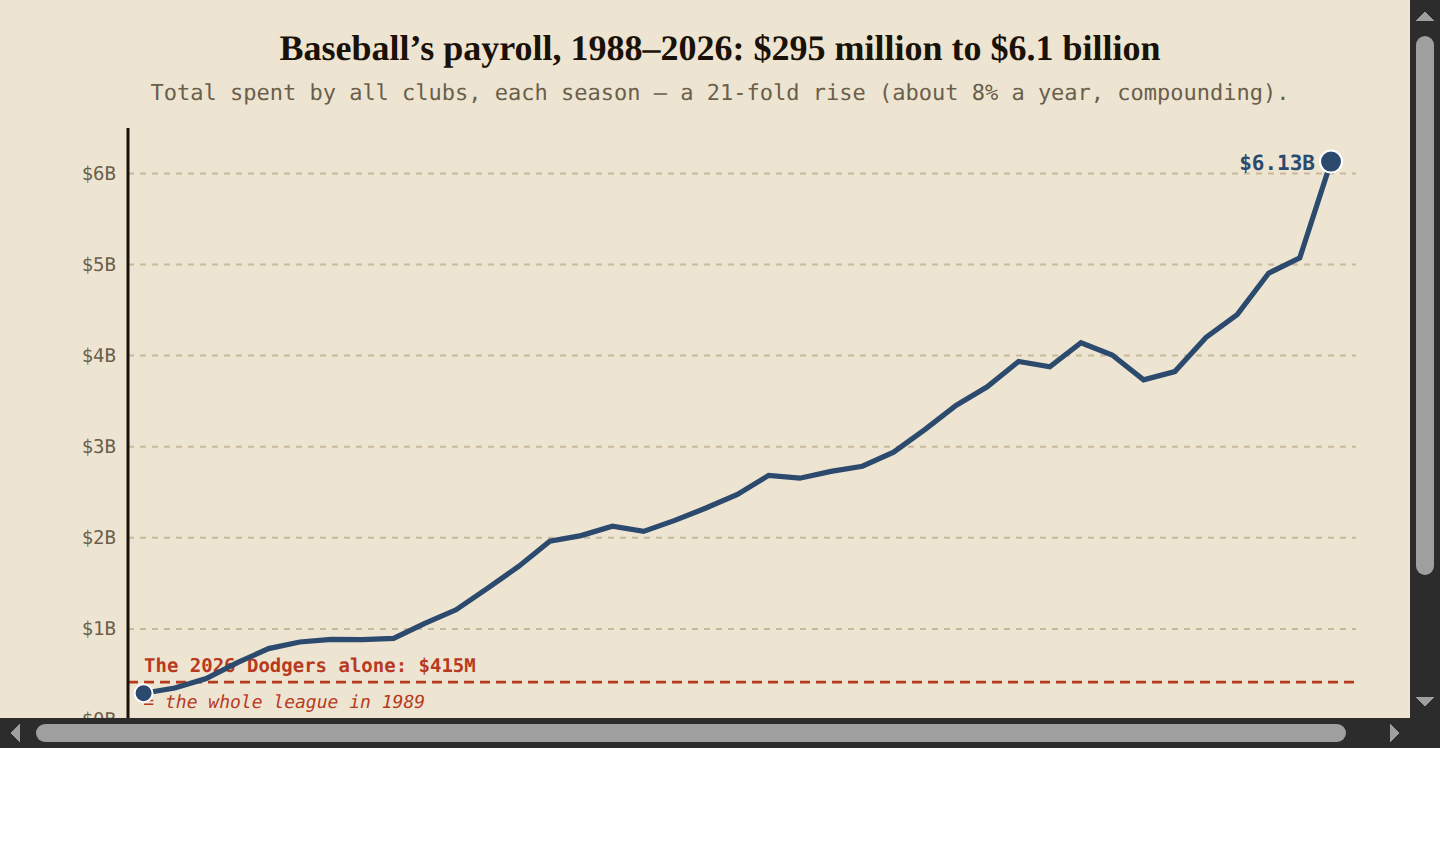
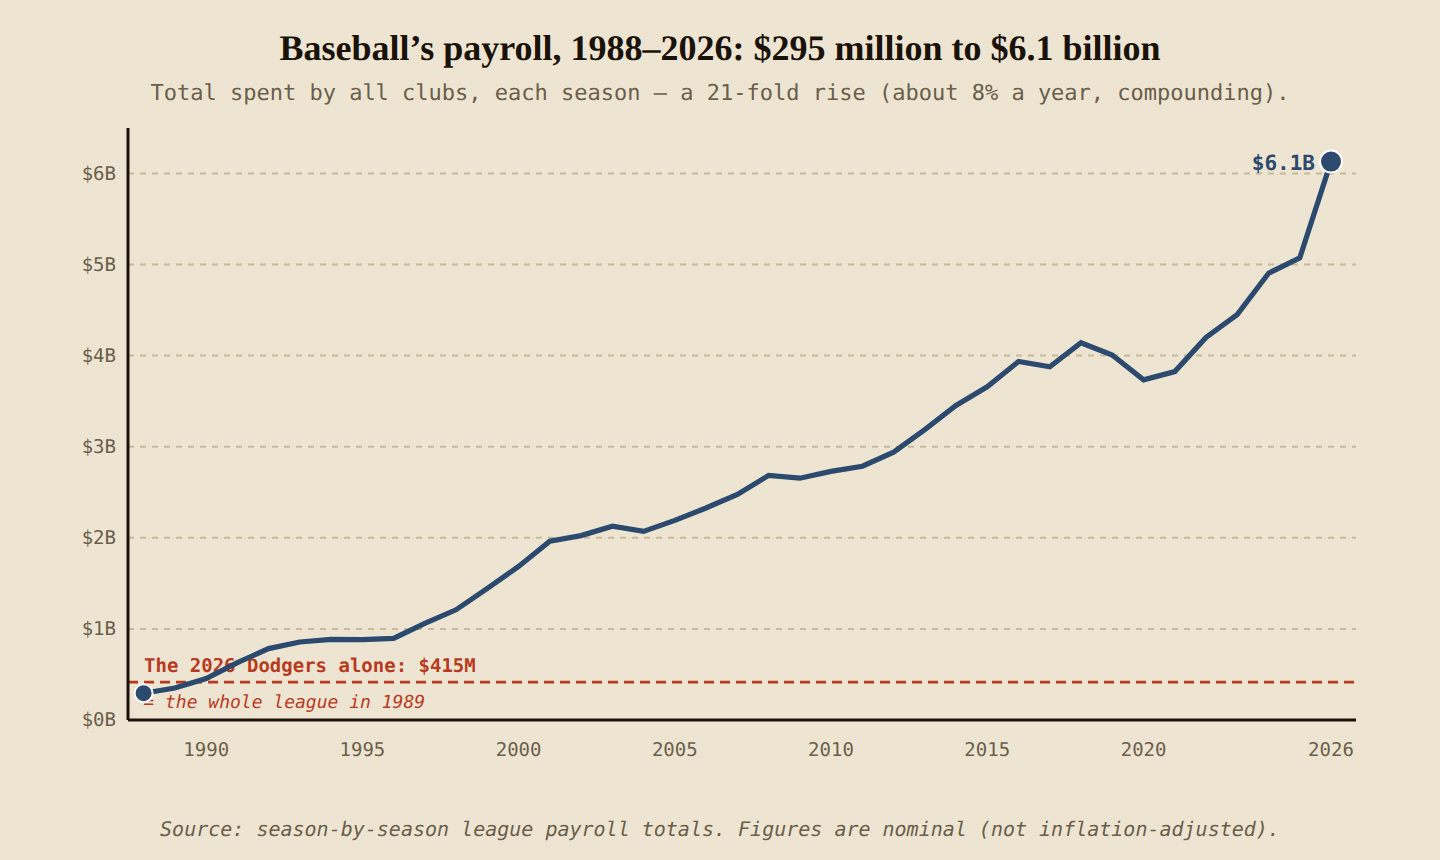
Significant digits: cap reader-facing numbers at 2 sig figs
Per standing rule (at most 2 sig figs, forcefully defended): #104 figure
endpoint $6.13B -> $6.1B (re-rendered); #105 drops the '13.5 points' model
constant from the notes box in favor of a qualitative description. Computed
bits unchanged.

Changed region(s): [[0.0, 0.0, 1.0, 1.0], [0.8438, 0.1814, 0.9062, 0.2116]]

diff --git a/queue/104-payroll-explosion-arms-race.html b/queue/104-payroll-explosion-arms-race.html
@@ -121,7 +121,7 @@ hr{border:none;border-top:1px solid var(--div);margin:1.5rem 0}
 <polyline points="71.8,346.6 87.4,344.0 103.1,339.3 118.7,331.3 134.3,324.3 149.9,321.0 165.6,319.7 181.2,319.8 196.8,319.2 212.4,311.7 228.0,304.9 243.7,294.2 259.3,283.2 274.9,270.6 290.5,267.8 306.2,263.1 321.8,265.7 337.4,260.2 353.0,254.0 368.7,247.2 384.3,237.7 399.9,239.1 415.5,235.7 431.2,233.1 446.8,226.1 462.4,214.8 478.0,202.7 493.6,193.4 509.3,180.7 524.9,183.4 540.5,171.4 556.1,177.5 571.8,189.9 587.4,185.8 603.0,168.7 618.6,157.3 634.3,136.6 649.9,128.9 665.5,80.8" fill="none" stroke="#2c4a6e" stroke-width="2.6"/>
 <circle cx="71.8" cy="346.6" r="4.5" fill="#2c4a6e" stroke="#fff" stroke-width="1"/>
 <circle cx="665.5" cy="80.8" r="5.5" fill="#2c4a6e" stroke="#fff" stroke-width="1"/>
-<text x="657.5" y="84.8" text-anchor="end" font-size="10.5" fill="#2c4a6e" font-weight="700">$6.13B</text>
+<text x="657.5" y="84.8" text-anchor="end" font-size="10.5" fill="#2c4a6e" font-weight="700">$6.1B</text>
 <text x="360" y="418" text-anchor="middle" font-size="10" font-style="italic" fill="#6b5e4a">Source: season-by-season league payroll totals. Figures are nominal (not inflation-adjusted).</text>
 </svg>
   </div>

diff --git a/queue/105-cfb-weeks-that-matter.html b/queue/105-cfb-weeks-that-matter.html
@@ -207,7 +207,7 @@ hr{border:none;border-top:1px solid var(--div);margin:1.5rem 0}
   <div class="box" style="background:var(--ink)">
     <h3>Notes &amp; sources</h3>
     <p style="color:#c8b99a">Schedule and opening point spreads from CollegeFootballData (apinext.collegefootballdata.com), cross-checked against the schools&rsquo; official 2026 schedules, ESPN, and FBSchedules. Ohio State at Texas (Sep 12, Week 2) and the Red River rivalry (Texas&ndash;Oklahoma, Oct 10, AT&amp;T Stadium, Dallas) were verified against the participating athletic departments. The &ldquo;contender&rdquo; set is the frontrunner / in-the-hunt / dark-horse board from Part II; a game counts as a collision when both teams appear on it. Twenty-two such games appear on the 2026 regular-season schedule.</p>
-    <p style="color:#c8b99a">Win probabilities are derived from opening spreads via a normal model (margin standard deviation &asymp; 13.5 points); information content is the Shannon entropy of that probability, H = &minus;p&#8202;log&#8322;p &minus; (1&minus;p)&#8202;log&#8322;(1&minus;p), measured in bits, where a coin-flip = 1 bit. As of mid-July only the September games carry posted lines; the remaining collisions are identified by matchup, and their probabilities are pending. Spreads move; treat every number here as a preseason estimate, not a settled fact. See the companion <a href="https://thesportspage.net/" style="color:#c9962a" target="_blank" rel="noopener">Roadmap</a> pieces, Parts I and II, for the contender board itself.</p>
+    <p style="color:#c8b99a">Win probabilities are derived from opening spreads via a standard normal margin model calibrated to typical college-football scoring margins; information content is the Shannon entropy of that probability, H = &minus;p&#8202;log&#8322;p &minus; (1&minus;p)&#8202;log&#8322;(1&minus;p), measured in bits, where a coin-flip = 1 bit. As of mid-July only the September games carry posted lines; the remaining collisions are identified by matchup, and their probabilities are pending. Spreads move; treat every number here as a preseason estimate, not a settled fact. See the companion <a href="https://thesportspage.net/" style="color:#c9962a" target="_blank" rel="noopener">Roadmap</a> pieces, Parts I and II, for the contender board itself.</p>
   </div>
 
   <div class="footer">